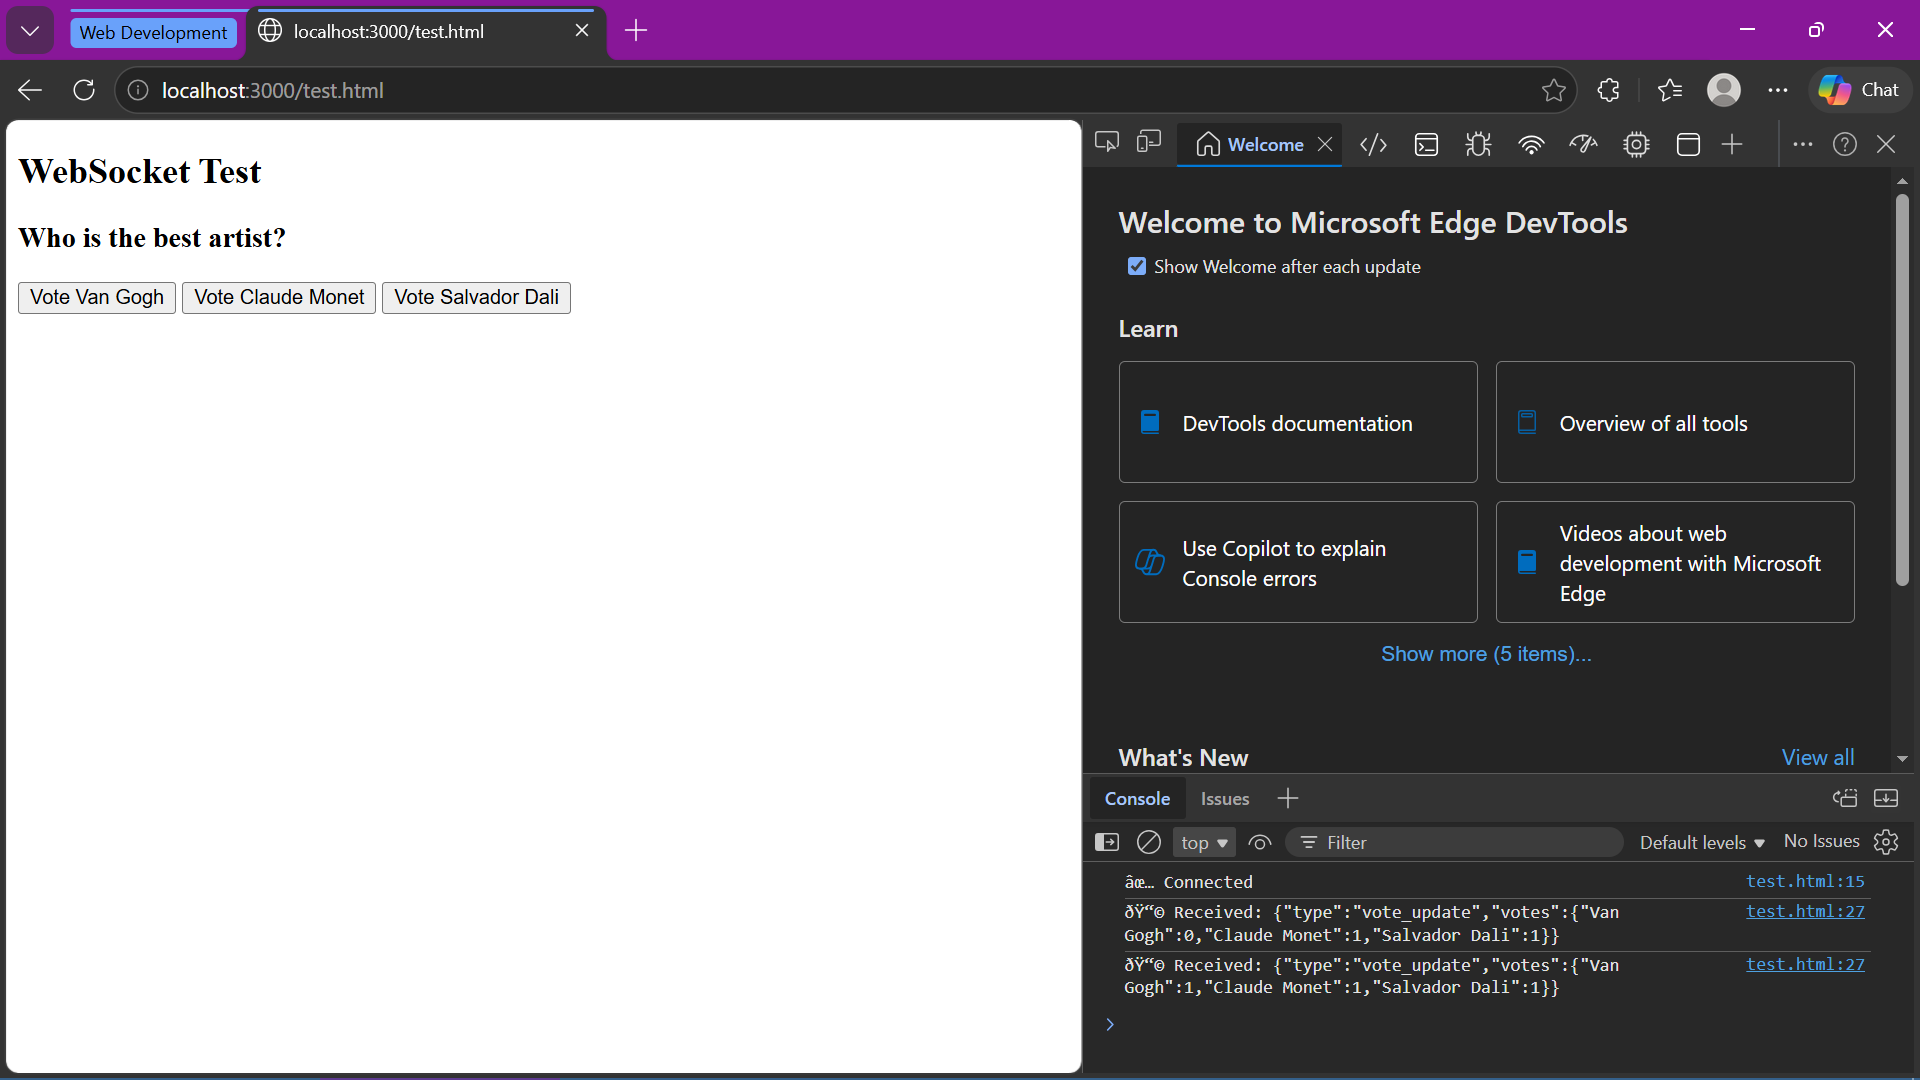
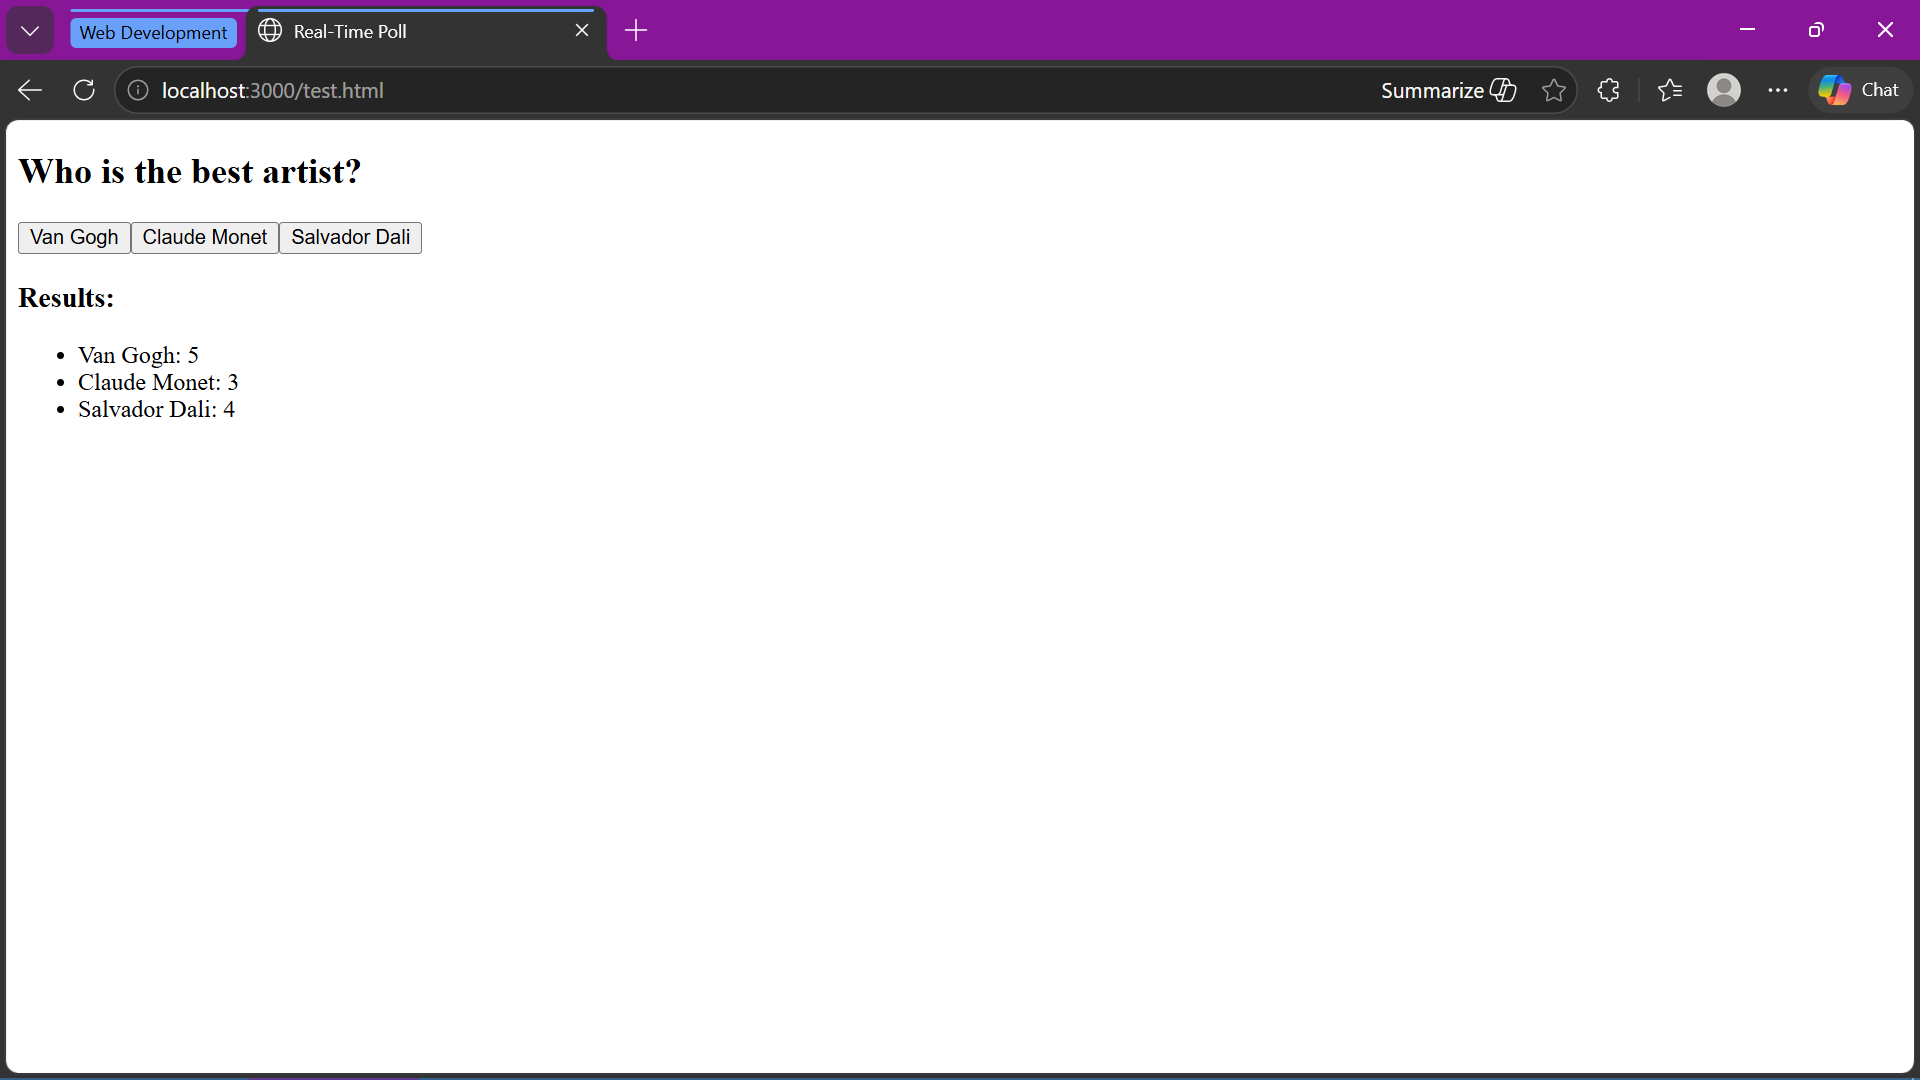
mini-project-4: websocket endpoint added, added counter for votes

diff --git a/mini-project-4/test.html b/mini-project-4/test.html
@@ -1,39 +1,62 @@
 <!DOCTYPE html>
 <html>
+<head>
+    <title>Real-Time Poll</title>
+</head>
 <body>
-<h2>WebSocket Test</h2>
 
-<h3>Who is the best artist?</h3>
-<button onclick="vote('Van Gogh')">Vote Van Gogh</button>
-<button onclick="vote('Claude Monet')">Vote Claude Monet</button>
-<button onclick="vote('Salvador Dali')">Vote Salvador Dali</button>
+<h2>Who is the best artist?</h2>
+
+<div id="buttons"></div>
+
+<h3>Results:</h3>
+<ul id="results"></ul>
 
 <script>
-const ws = new WebSocket("ws://127.0.0.1:8000/ws/polls/839083b2-a164-4110-9865-11b6711c2329");
+const pollId = "839083b2-a164-4110-9865-11b6711c2329";
+const ws = new WebSocket(`ws://127.0.0.1:8000/ws/polls/${pollId}`);
+
+const options = ["Van Gogh", "Claude Monet", "Salvador Dali"];
+
+const buttonsDiv = document.getElementById("buttons");
+const resultsList = document.getElementById("results");
+
+options.forEach(option => {
+    const btn = document.createElement("button");
+    btn.innerText = option;
+    btn.onclick = () => vote(option);
+    buttonsDiv.appendChild(btn);
+});
+
+function vote(option) {
+    ws.send(JSON.stringify({ option }));
+}
+
+function updateResults(votes) {
+    resultsList.innerHTML = "";
+    for (const option in votes) {
+        const li = document.createElement("li");
+        li.innerText = `${option}: ${votes[option]}`;
+        resultsList.appendChild(li);
+    }
+}
 
 ws.onopen = () => {
-    console.log("✅ Connected");
-};
-
-ws.onclose = () => {
-    console.log("❌ Disconnected");
-};
-
-ws.onerror = (err) => {
-    console.log("⚠ Error:", err);
+    console.log("Connected");
 };
 
 ws.onmessage = (event) => {
-    console.log("📩 Received:", event.data);
+    const data = JSON.parse(event.data);
+
+    if (data.type === "vote_update") {
+        updateResults(data.votes);
+    }
 };
 
-function vote(option) {
-    if (ws.readyState === WebSocket.OPEN) {
-        ws.send(JSON.stringify({ option }));
-    } else {
-        console.log("❌ WebSocket not open");
-    }
-}
+ws.onclose = () => {
+    console.log("Disconnected");
+};
 </script>
+
 </body>
 </html>
